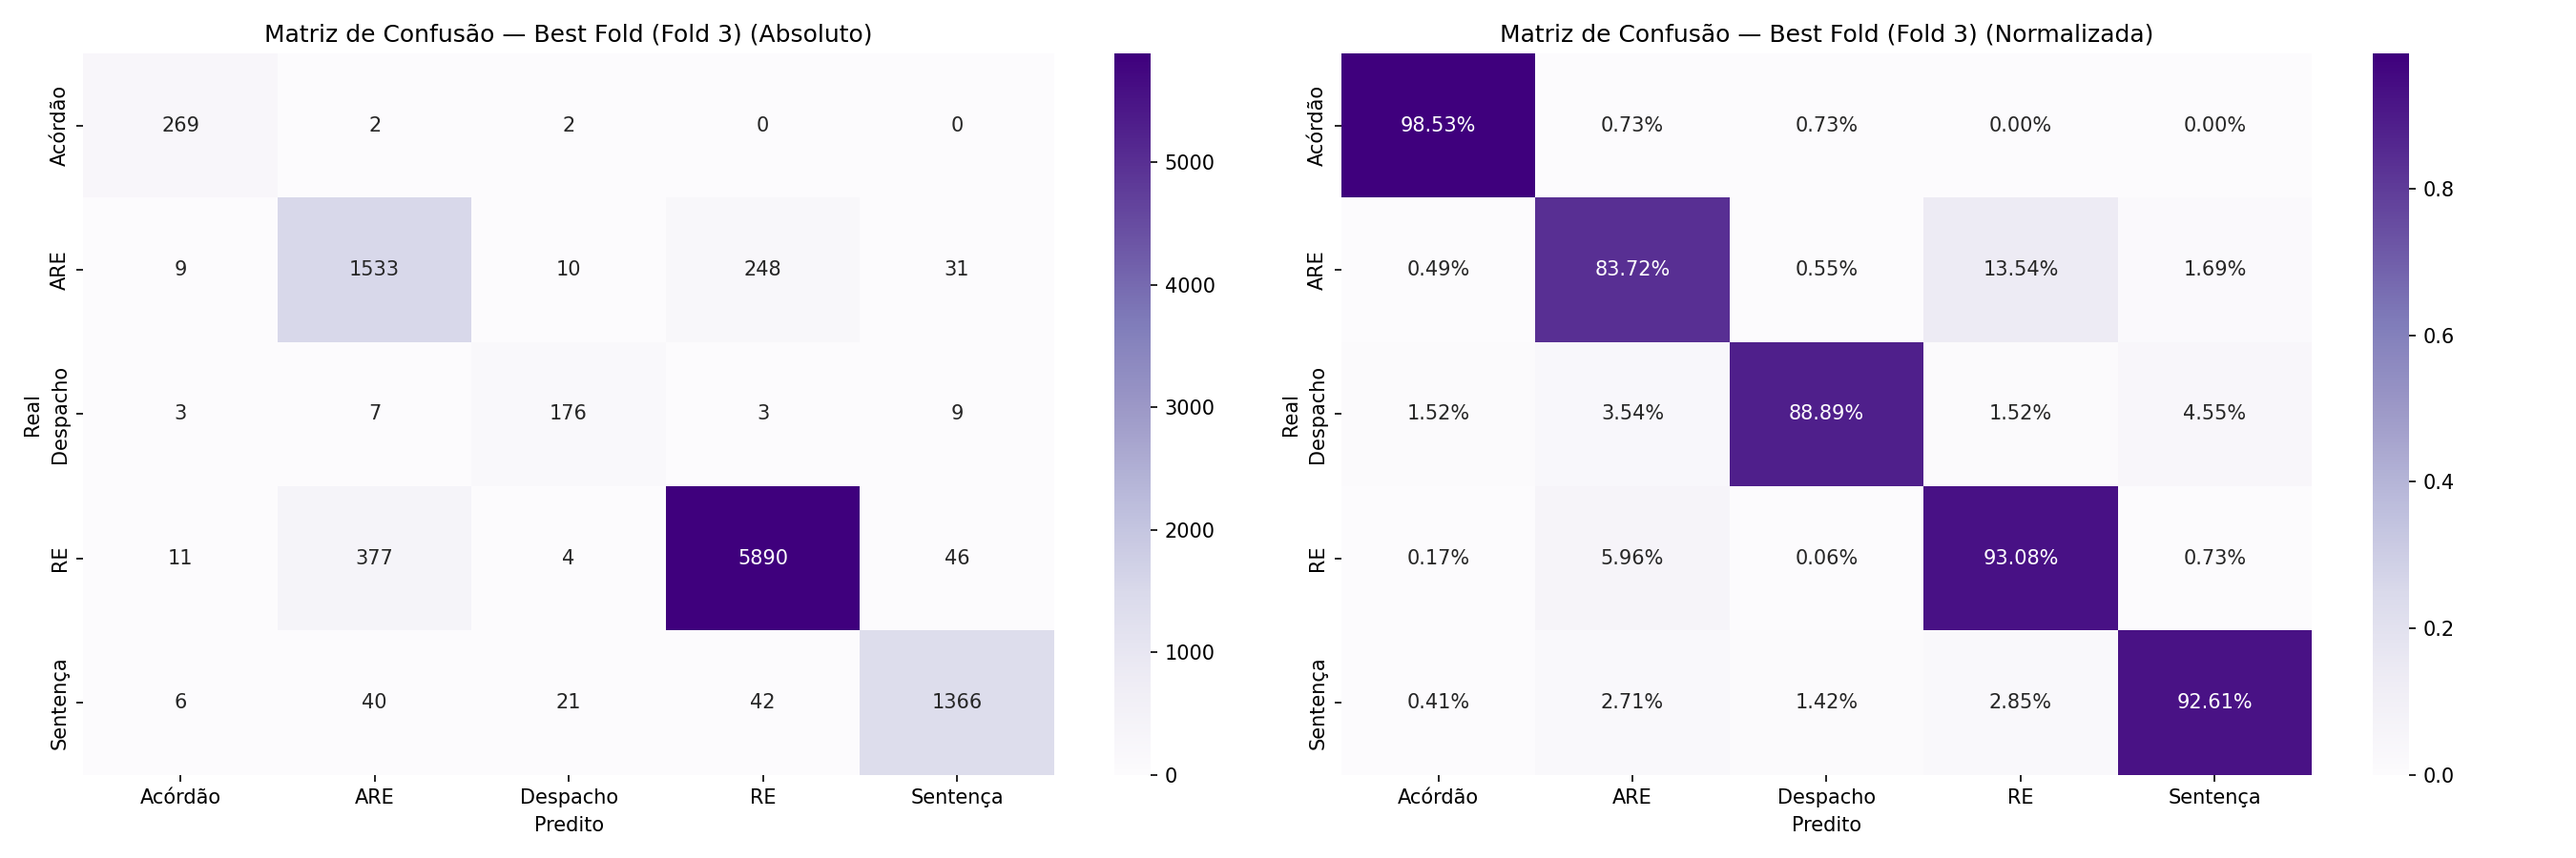
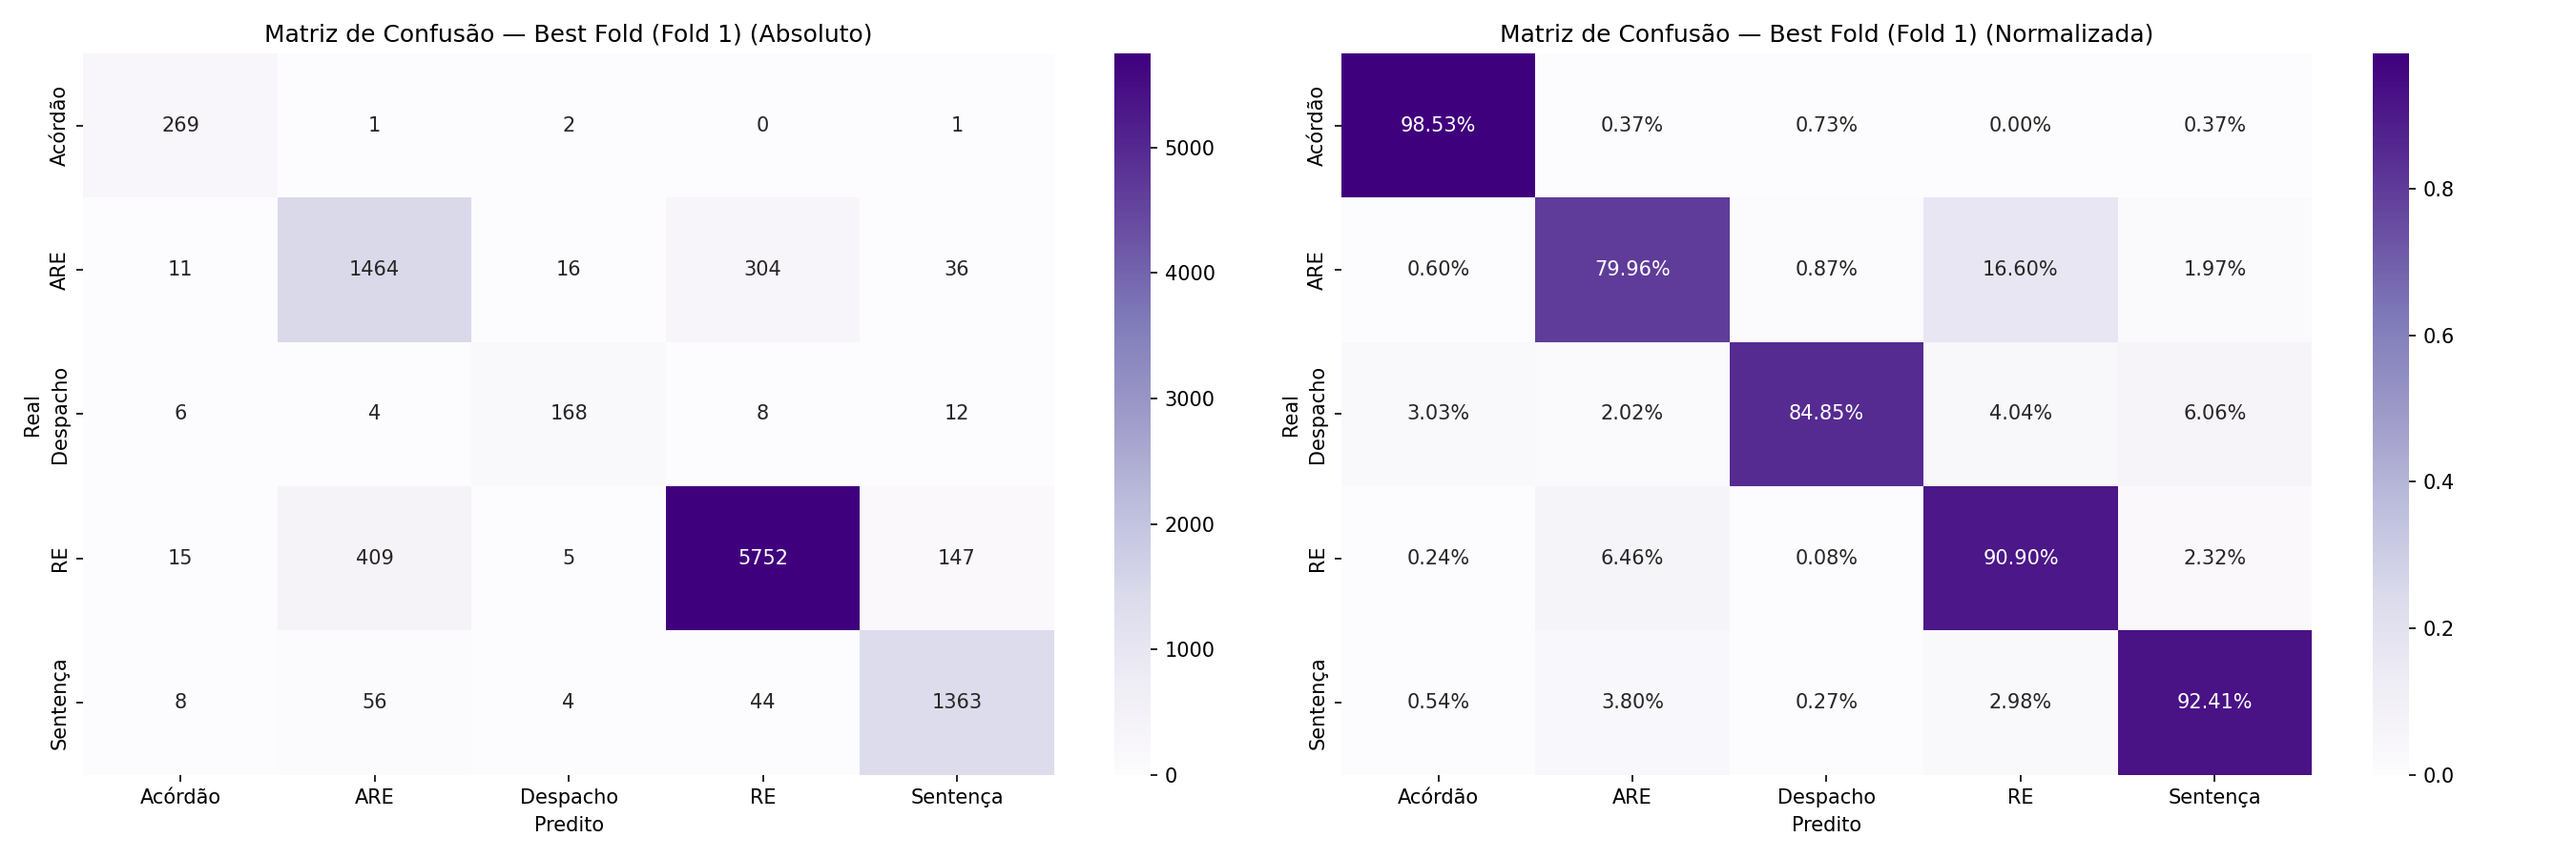
fix: cv group e resultados

diff --git a/cross_validation_group.py b/cross_validation_group.py
@@ -1,14 +1,12 @@
 import pandas as pd
 import numpy as np
 import torch
-import json
 import time
 import os
 import gc
 import shutil
 import matplotlib.pyplot as plt
 import seaborn as sns
-from torch import nn
 from torch.utils.data import Dataset
 from torch.nn.functional import softmax
 from transformers import (
@@ -228,10 +226,7 @@ def main():
         df_train_full = df_train_full.head(1000).reset_index(drop=True)
         df_test = df_test.head(200).reset_index(drop=True)
 
-    with open("results/class_weights.json", "r") as f:
-        class_weights_dict = json.load(f)
-
-    classes = sorted(list(class_weights_dict.keys()))
+    classes = sorted(df_train_full["document_type"].unique().tolist())
     label2id = {c: i for i, c in enumerate(classes)}
     id2label = {i: c for i, c in enumerate(classes)}
     num_labels = len(classes)
@@ -239,9 +234,7 @@ def main():
     labels_names = [id2label[i] for i in range(num_labels)]
     labels_abrev = ['Acórdão', 'ARE', 'Despacho', 'RE', 'Sentença']
 
-    weights_list = [class_weights_dict[c] for c in classes]
     device = torch.device("cuda" if torch.cuda.is_available() else "cpu")
-    class_weights_tensor = torch.tensor(weights_list, dtype=torch.float).to(device)
 
     # Construir grupos de documentos para evitar data leakage
     groups_series = build_groups(df_train_full, mode=GROUP_MODE)
@@ -252,7 +245,7 @@ def main():
     print(f"  Teste:             {len(df_test)} páginas")
     print(f"  Device:            {device}")
     print(f"  Classes:           {classes}")
-    print(f"  Pesos:             {weights_list}")
+    print("  Balanceamento:     Nenhum (CrossEntropyLoss padrão, sem class_weights)")
 
     # =========================================================================
     # 2. TOKENIZAÇÃO DO CONJUNTO DE TESTE (feita uma única vez)
@@ -266,19 +259,7 @@ def main():
     test_dataset = LegalDataset(test_encodings, test_labels)
 
     # =========================================================================
-    # 3. WEIGHTED TRAINER
-    # =========================================================================
-    class WeightedTrainer(Trainer):
-        def compute_loss(self, model, inputs, return_outputs=False, **kwargs):
-            labels = inputs.pop("labels")
-            outputs = model(**inputs)
-            logits = outputs.logits
-            loss_fct = nn.CrossEntropyLoss(weight=class_weights_tensor)
-            loss = loss_fct(logits.view(-1, self.model.config.num_labels), labels.view(-1))
-            return (loss, outputs) if return_outputs else loss
-
-    # =========================================================================
-    # 4. STRATIFIED GROUP K-FOLD CROSS-VALIDATION
+    # 3. STRATIFIED GROUP K-FOLD CROSS-VALIDATION
     # =========================================================================
     print(f"\n[3/7] Iniciando StratifiedGroupKFold ({N_SPLITS}-Fold) por '{GROUP_MODE}'...")
     sgkf = StratifiedGroupKFold(n_splits=N_SPLITS, shuffle=True, random_state=RANDOM_STATE)
@@ -414,7 +395,7 @@ def main():
             report_to="none",
         )
 
-        trainer = WeightedTrainer(
+        trainer = Trainer(
             model=model,
             args=training_args,
             train_dataset=fold_train_dataset,
@@ -489,7 +470,7 @@ def main():
             torch.cuda.empty_cache()
 
     # =========================================================================
-    # 5. RESUMO DA CROSS-VALIDATION
+    # 4. RESUMO DA CROSS-VALIDATION
     # =========================================================================
     print(f"\n{'=' * 60}")
     print(f" RESUMO DA {N_SPLITS}-FOLD STRATIFIED GROUP CROSS-VALIDATION")
@@ -523,7 +504,7 @@ def main():
     print(f"\n  ★ Melhor Fold: {best_fold_num} (F1 Macro = {best_fold_f1:.4f})")
 
     # =========================================================================
-    # 6. AVALIAÇÃO NO TESTE — BEST FOLD
+    # 5. AVALIAÇÃO NO TESTE — BEST FOLD
     # =========================================================================
     print(f"\n[4/7] Avaliando BEST FOLD (Fold {best_fold_num}) no conjunto de Teste...")
 
@@ -553,7 +534,7 @@ def main():
         torch.cuda.empty_cache()
 
     # =========================================================================
-    # 7. AVALIAÇÃO NO TESTE — ENSEMBLE (SOFT VOTING)
+    # 6. AVALIAÇÃO NO TESTE — ENSEMBLE (SOFT VOTING)
     # =========================================================================
     available_models = [(i + 1, p) for i, p in enumerate(fold_model_paths) if os.path.isdir(p)]
     ensemble_results = None
@@ -594,7 +575,7 @@ def main():
         )
 
         # =====================================================================
-        # 8. COMPARAÇÃO FINAL
+        # 7. COMPARAÇÃO FINAL
         # =====================================================================
         print(f"\n[6/7] Gerando comparação final...")
 
@@ -616,13 +597,14 @@ def main():
         print("[6/7] Comparação Ensemble pulada (rode com START_FROM_FOLD = 1 para gerar todos os 5 folds).")
 
     # =========================================================================
-    # 9. SALVAR RESUMO GERAL
+    # 8. SALVAR RESUMO GERAL
     # =========================================================================
     print(f"\n[7/7] Salvando resumo geral...")
 
     summary = {
         'modelo': MODEL_NAME,
         'cv_strategy': f'StratifiedGroupKFold ({GROUP_MODE})',
+        'class_weighting': 'none',
         'epochs': BEST_EPOCHS,
         'batch_size': BEST_BATCH_SIZE,
         'learning_rate': BEST_LR,
